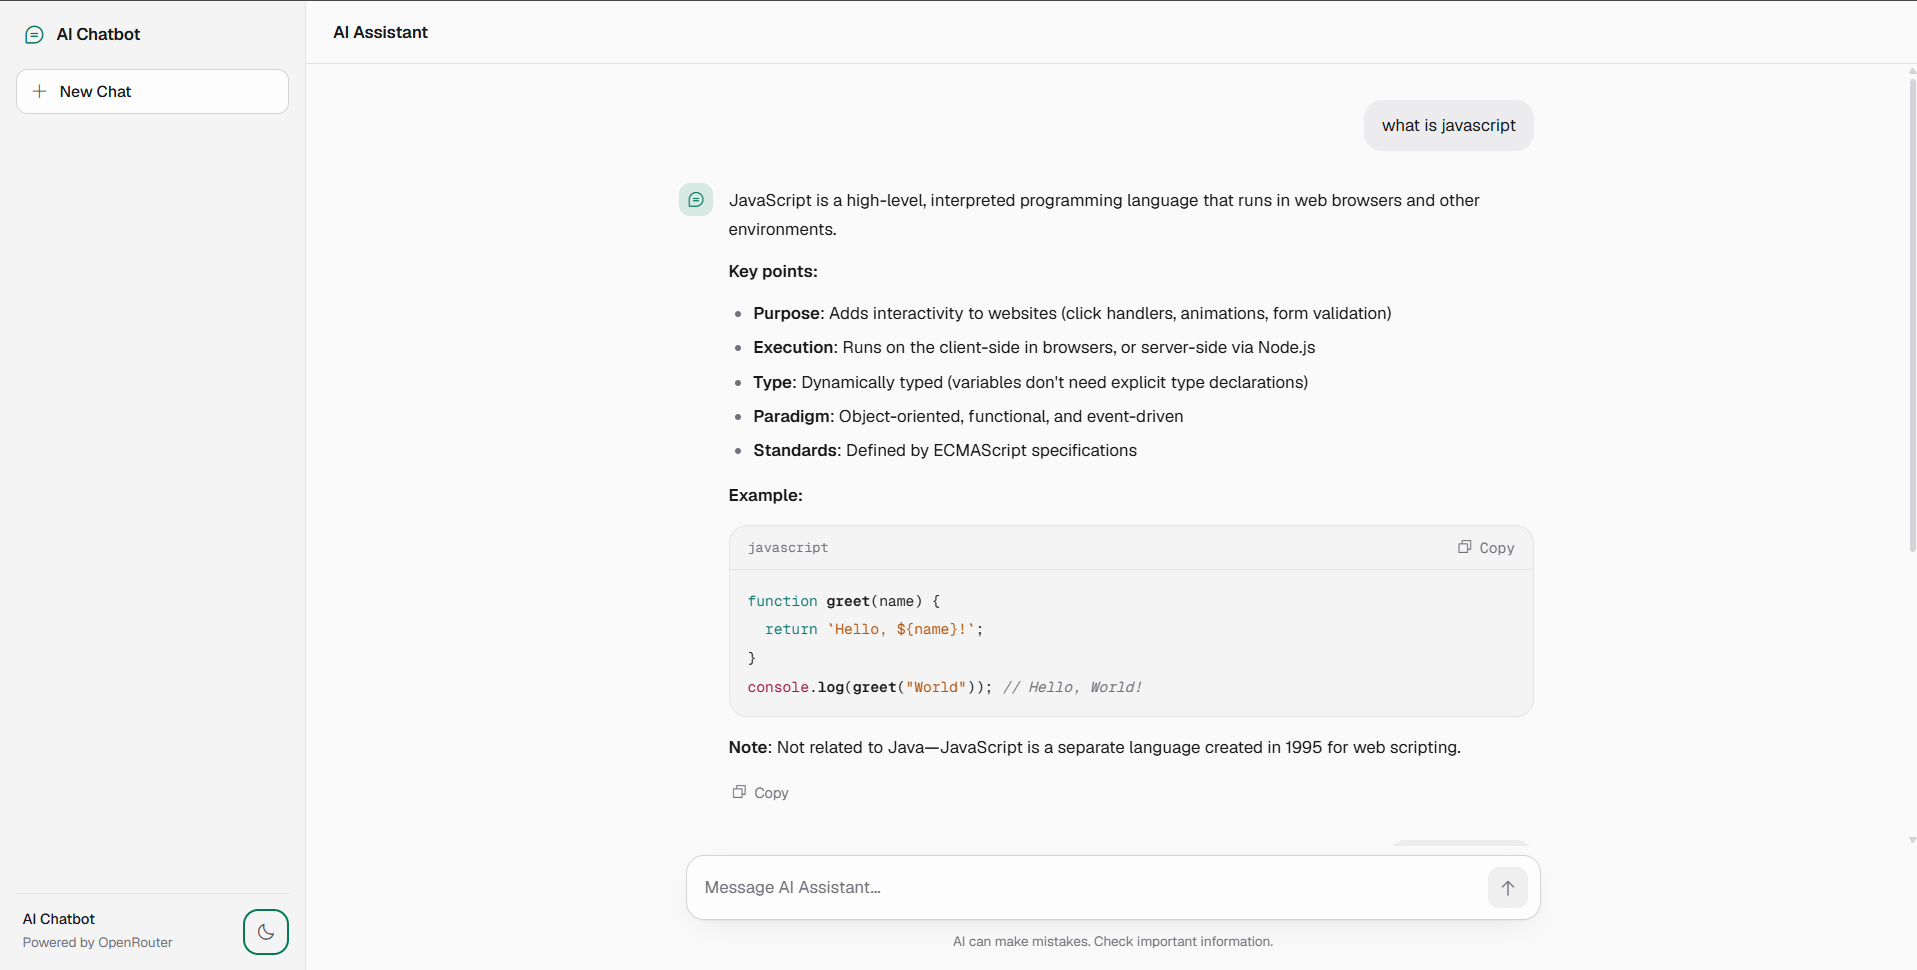
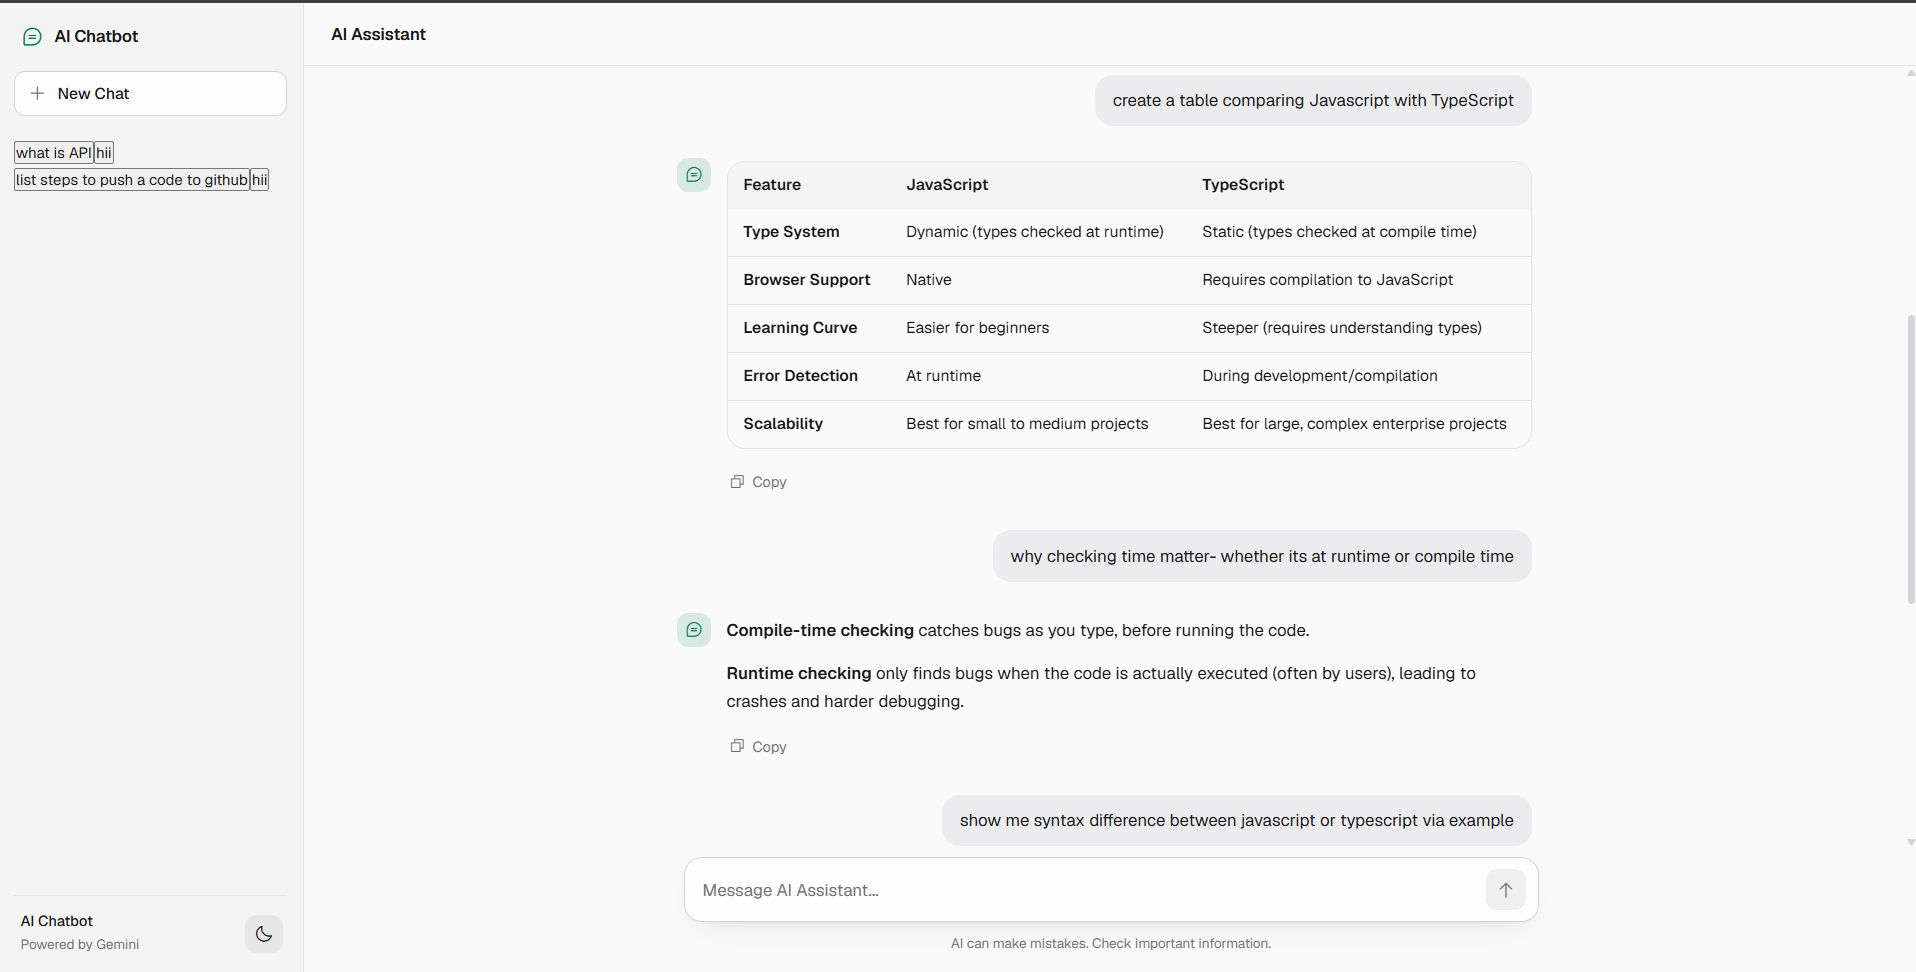
added MONGO_URL in .env

diff --git a/public/script.js b/public/script.js
@@ -11,6 +11,7 @@ const root = document.documentElement;
 const welcomeTemplate = $("welcome-screen").cloneNode(true);
 
 let history = [];
+let chatId = null;   // MongoDB _id of the open chat (null = new chat)
 let controller = null;
 let busy = false;
 let session = 0; // bumped on New Chat so stale requests never touch the UI
@@ -84,17 +85,20 @@ async function requestReply() {
         const response = await fetch("/api/chat", {
             method: "POST",
             headers: { "Content-Type": "application/json" },
-            body: JSON.stringify({ messages: history }),
+            body: JSON.stringify({ chatId, messages: history }),
             signal: controller.signal
         });
         const data = await response.json();
         if (!response.ok) throw new Error(data.error);
 
-        if (mySession !== session) return;
+        if (mySession !== session) return;   // user clicked New Chat / opened another chat meanwhile
+
+        chatId = data.chatId;
+        history.push({ role: "assistant", content: data.result });
 
         removeTyping();
-        history.push({ role: "assistant", content: data.result });
         addMessage("assistant", data.result);
+        loadHistory();   // refresh sidebar list
 
     } catch (error) {
         if (mySession !== session) return;
@@ -285,6 +289,7 @@ $("new-chat-btn").addEventListener("click", () => {
     controller = null;
     busy = false;
     history = [];
+    chatId = null;
 
     messages.replaceChildren(welcomeTemplate.cloneNode(true));
 
@@ -295,9 +300,52 @@ $("new-chat-btn").addEventListener("click", () => {
     resetSendButton();
 
     setSidebar(false);
+    loadHistory();
     input.focus();
 });
 
+
+
+// ---------- Chat history (MongoDB) ----------
+
+const historyList = document.querySelector(".chat-history");
+
+async function loadHistory() {
+    try {
+        const res = await fetch("/api/chats");
+        const chats = await res.json();
+
+        historyList.replaceChildren();
+        chats.forEach(chat => {
+            const item = document.createElement("button");
+            item.type = "button";
+            item.className = "history-item";
+            if (chat._id === chatId) item.classList.add("is-active");
+            item.textContent = chat.title;
+            item.onclick = () => openChat(chat._id);
+            historyList.append(item);
+        });
+    } catch (e) {
+        console.error(e);
+    }
+}
+
+async function openChat(id) {
+    if (busy) return;
+
+    const res = await fetch(`/api/chats/${id}`);
+    const chat = await res.json();
+
+    session++;
+    chatId = chat._id;
+    history = chat.messages.map(m => ({ role: m.role, content: m.content }));
+
+    messages.replaceChildren();
+    history.forEach(m => addMessage(m.role, m.content));
+
+    setSidebar(false);
+    loadHistory();
+}
 
 // ---------- Sidebar (mobile drawer) ----------
 
@@ -334,3 +382,4 @@ prefersDark.addEventListener("change", syncThemeButton);
 
 syncThemeButton();
 resetSendButton();
+loadHistory();

diff --git a/server.js b/server.js
@@ -1,7 +1,11 @@
+const dns = require('dns'); 
+dns.setServers(['8.8.8.8', '8.8.4.4']);
+
 const express = require('express')
 const app = express()
 
 const dotenv = require('dotenv')
+const mongoose = require('mongoose')
 dotenv.config();   // dotenv.config() -> to load secretly from .env file into process.env
 
 app.use(express.json())  //lets the server read JSON request
@@ -10,11 +14,17 @@ app.use(express.static("public")) //serves the files in public/ folder to the br
 const PORT = process.env.PORT
 const { GoogleGenAI } = require("@google/genai");
 
+const connectDB = require('./db')
+const Chat = require('./models/Chat')
+connectDB()
+
 app.post("/api/chat", async(req,res)=>{
+    const {chatId} = req.body
+
     // const content = req.body.messages.at(-1).content  //this sends very last msg
     const content = req.body.messages.map(m => {
         return {
-            role: m.role === "assistant" ? "model" : "user",   // Gemini calls the assistant "model"
+            role: m.role === "assistant" ? "model" : "user",   
             parts: [{ text: m.content }]
         }
     })
@@ -32,15 +42,38 @@ app.post("/api/chat", async(req,res)=>{
         },
     })
 
+    // history + the new reply, this is what gets saved
+    const allMessages = [...req.body.messages, { role: "assistant", content: response.text }]
+
+    let chat
+    if (chatId) {
+        // existing chat -> overwrite its messages
+        chat = await Chat.findByIdAndUpdate(chatId, { messages: allMessages }, { new: true })
+    } else {
+        // first message of a new chat -> create it, title = start of first message
+        chat = await Chat.create({ title: req.body.messages[0].content.slice(0, 40), messages: allMessages })
+    }
+
     return res.json({        //make it into objects
-        result: response.text      
+        result: response.text, chatId: chat._id     
     })
 })
 
-app.use((err, req, res, next) => {    //error handling
+// list of all chats for the sidebar (only title + date, newest first)
+app.get("/api/chats", async(req,res)=>{
+    const chats = await Chat.find({}, "title updatedAt").sort({ updatedAt: -1 })
+    res.json(chats)
+})
+
+// one full chat, to reopen it
+app.get("/api/chats/:id", async(req,res)=>{
+    const chat = await Chat.findById(req.params.id)
+    res.json(chat)
+})
+
+app.use((err, req, res, next) => {    //error handling (must stay after all routes)
     console.error(err);
     res.status(500).json({ error: "Failed to get reply" });
 });
 
 app.listen(PORT, ()=> console.log(`Server runnning at Port ${process.env.PORT}`))
-    

diff --git a/public/index.html b/public/index.html
@@ -42,7 +42,7 @@
             <div class="sidebar-footer">
                 <div class="sidebar-footer-text">
                     <p>AI Chatbot</p>
-                    <span>Powered by OpenRouter</span>
+                    <span>Powered by Gemini</span>
                 </div>
 
                 <button id="theme-btn" class="icon-btn" type="button" aria-label="Switch theme">

diff --git a/db.js b/db.js
@@ -1,0 +1,9 @@
+const mongoose = require('mongoose')
+
+function connectDB() {
+    mongoose.connect(process.env.MONGO_URI)
+        .then(() => console.log("MongoDB connected"))
+        .catch(err => console.error(err))
+}
+
+module.exports = connectDB

diff --git a/models/Chat.js b/models/Chat.js
@@ -1,0 +1,8 @@
+const mongoose = require('mongoose')
+
+const chatSchema = new mongoose.Schema({
+    title: String,
+    messages: [{role: String, content: String}]
+}, {timestamps: true})
+
+module.exports = mongoose.model("Chat", chatSchema)
